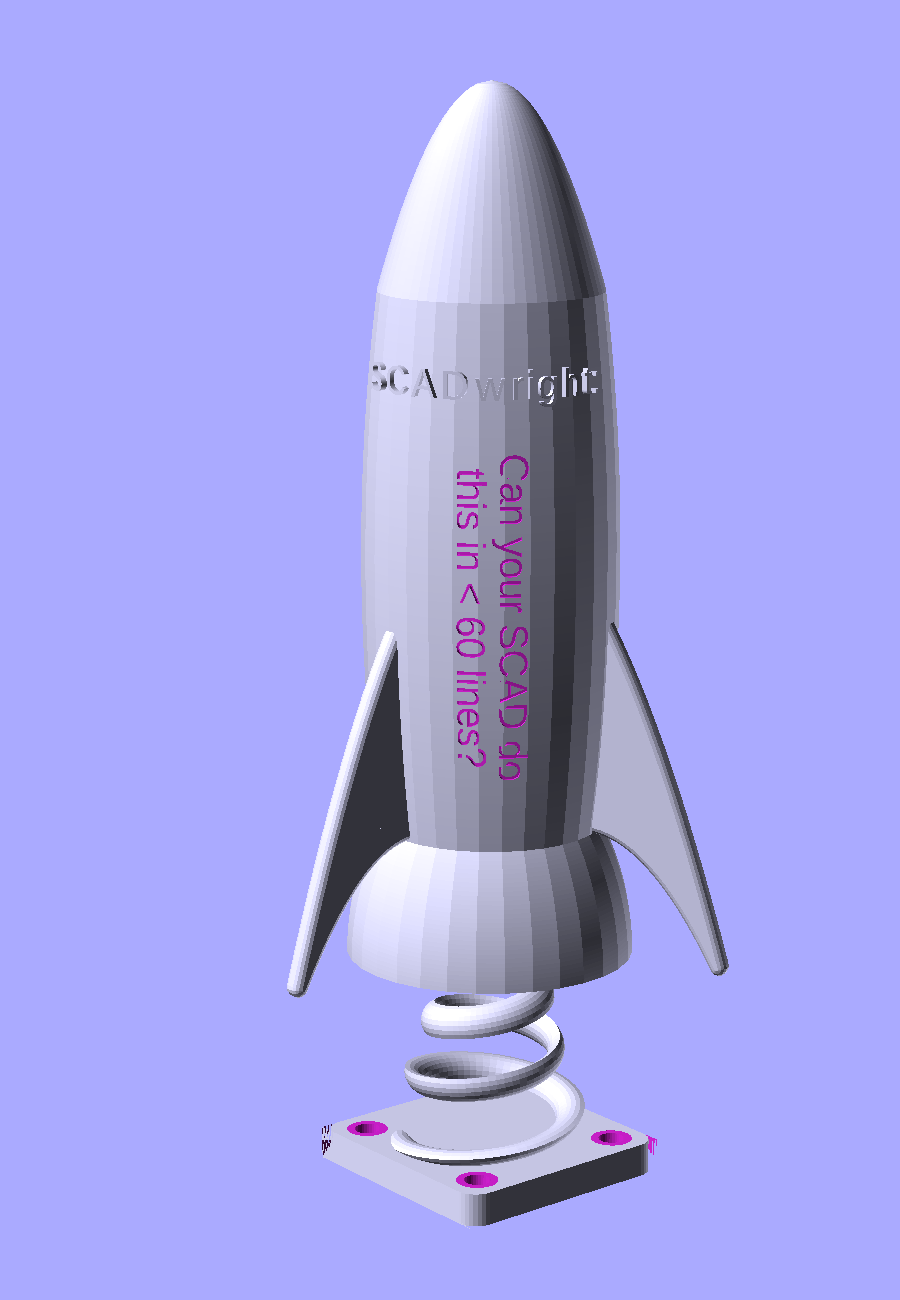
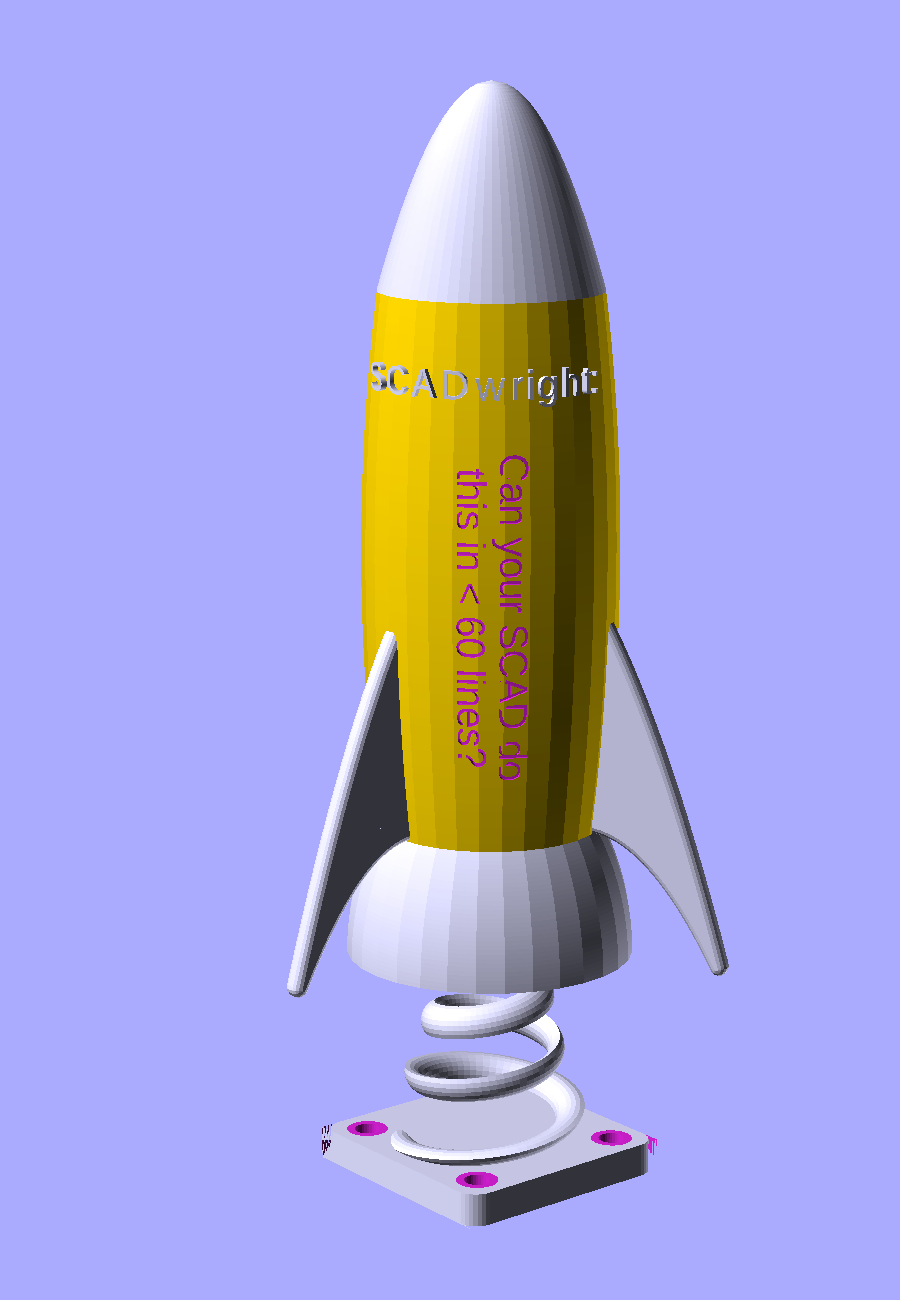
rocket: color the body gold so the engravings read against it

Changed region(s): [[0.3733, 0.2154, 0.7156, 0.6769]]

diff --git a/examples/rocket.py b/examples/rocket.py
@@ -89,7 +89,7 @@ fins = fin_blank.attach(
 ).left(fin_fillet).rotate_copy(angle=120, n=3, axis=[0, 0, 1])
 
 # Engraved labels: 
-labeled_body = body.add_text(
+labeled_body = body.color("gold").add_text(
     label="SCADwright:", on="outer_wall", meridian=45,
     font_size=2.5, spacing=1.2, relief=0.5, at_z = 16,
 ).add_text(